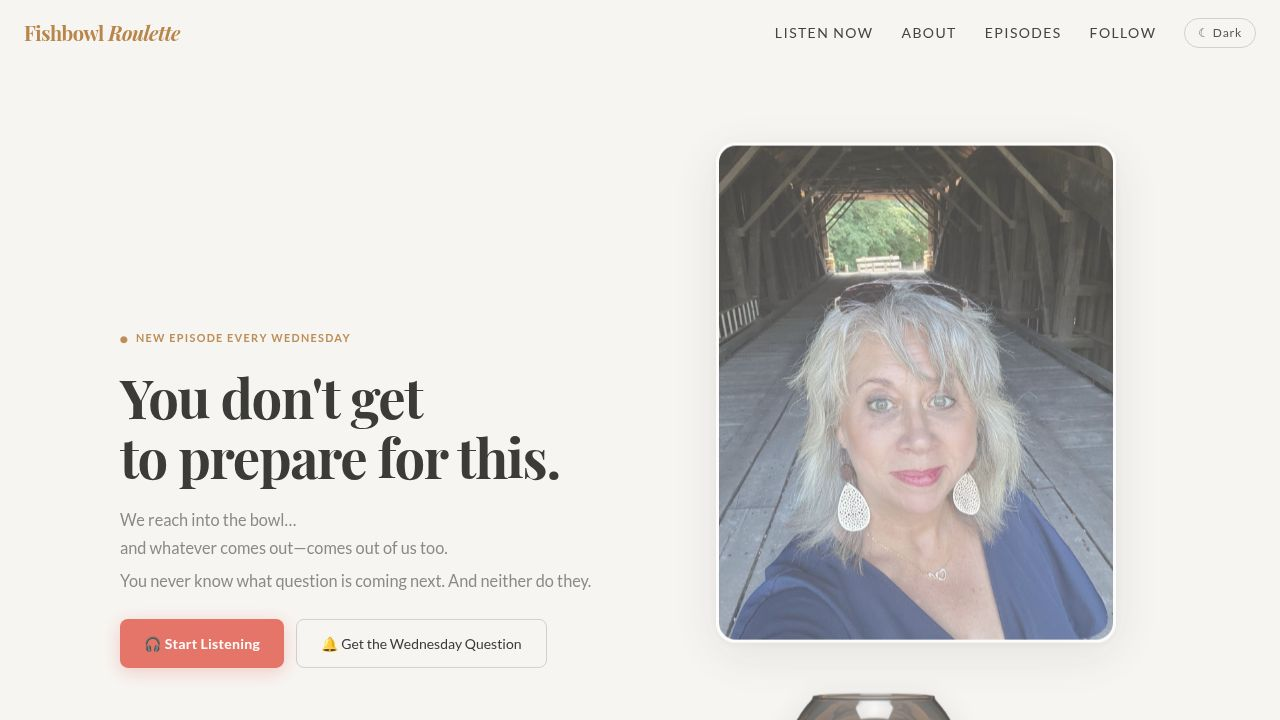
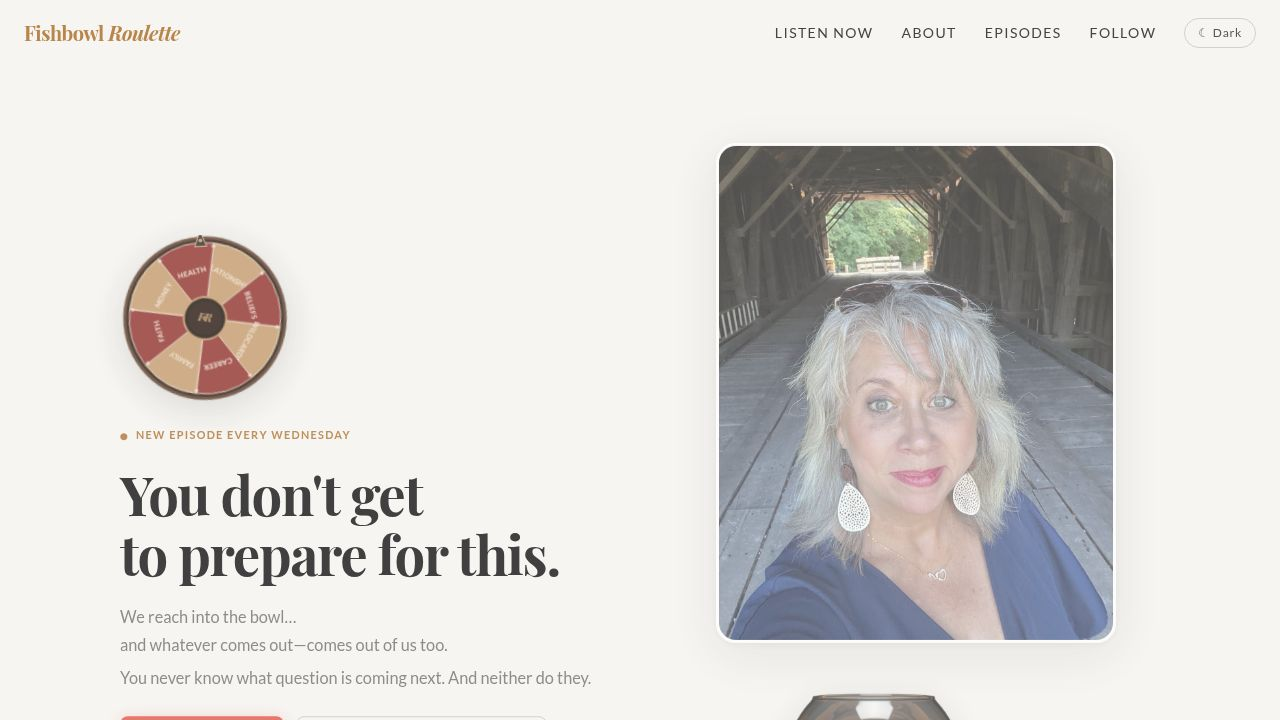
Add automated roulette wheel back to hero
User asked for the automated roulette wheel to be added back to the
empty space in the upper-left of the hero (above the "NEW EPISODE
EVERY WEDNESDAY" badge).

- artifacts/fishbowl-roulette/src/components/RouletteWheel.tsx (new):
  Pure SVG roulette wheel with 8 segments labeled Relationships,
  Beliefs, Wildcards, Career, Family, Faith, Money, Health. Alternating
  gold/red segments separated by cream borders, decorative cream dots
  on the outer ring, dark center hub with gold border and italic "FR"
  monogram, and a stationary triangular pointer at 12 o'clock. The
  wheel auto-spins continuously (22s per revolution) using a CSS
  keyframe animation, and respects prefers-reduced-motion. Theme-aware
  via an isDark prop.
- artifacts/fishbowl-roulette/src/pages/Home.tsx: Imported the
  component and placed it at the top of the hero's left column with a
  subtle motion entrance (fade + scale + rotate). Sized at 170px so it
  fits cleanly in the empty space without overflowing or pushing the
  headline down.

Drift: No prior roulette wheel existed in the git history (verified
across all commits — only "Roulette" as part of the brand name was
ever present), so I built one from scratch to fit the empty space.

Changed region(s): [[0.0938, 0.3056, 0.4688, 0.825], [0.0938, 0.8556, 0.4688, 0.9472], [0.0938, 0.9778, 0.2188, 1.0]]

diff --git a/artifacts/fishbowl-roulette/src/components/RouletteWheel.tsx b/artifacts/fishbowl-roulette/src/components/RouletteWheel.tsx
@@ -1,0 +1,178 @@
+import { useMemo } from 'react';
+
+interface RouletteWheelProps {
+  size?: number;
+  isDark?: boolean;
+  spinSeconds?: number;
+}
+
+const SEGMENTS = [
+  'Relationships',
+  'Beliefs',
+  'Wildcards',
+  'Career',
+  'Family',
+  'Faith',
+  'Money',
+  'Health',
+];
+
+export function RouletteWheel({
+  size = 180,
+  isDark = false,
+  spinSeconds = 22,
+}: RouletteWheelProps) {
+  const r = 100;
+  const cx = 0;
+  const cy = 0;
+  const segmentAngle = 360 / SEGMENTS.length;
+
+  const gold = '#c49a6c';
+  const goldDeep = '#9d7546';
+  const red = isDark ? '#a63a34' : '#8f2f2a';
+  const cream = '#f1e3d3';
+  const dark = '#1a1008';
+
+  const paths = useMemo(
+    () =>
+      SEGMENTS.map((label, i) => {
+        const startAngle = (i * segmentAngle - 90) * (Math.PI / 180);
+        const endAngle = ((i + 1) * segmentAngle - 90) * (Math.PI / 180);
+        const x1 = cx + r * Math.cos(startAngle);
+        const y1 = cy + r * Math.sin(startAngle);
+        const x2 = cx + r * Math.cos(endAngle);
+        const y2 = cy + r * Math.sin(endAngle);
+        const largeArc = segmentAngle > 180 ? 1 : 0;
+        const d = `M ${cx} ${cy} L ${x1} ${y1} A ${r} ${r} 0 ${largeArc} 1 ${x2} ${y2} Z`;
+        const fill = i % 2 === 0 ? gold : red;
+        const labelAngleDeg = i * segmentAngle + segmentAngle / 2 - 90;
+        const labelAngleRad = labelAngleDeg * (Math.PI / 180);
+        const labelR = r * 0.62;
+        const lx = cx + labelR * Math.cos(labelAngleRad);
+        const ly = cy + labelR * Math.sin(labelAngleRad);
+        return { d, fill, label, lx, ly, rotate: labelAngleDeg + 90 };
+      }),
+    [segmentAngle, gold, red],
+  );
+
+  return (
+    <div
+      style={{
+        width: size,
+        height: size,
+        position: 'relative',
+        filter: isDark
+          ? 'drop-shadow(0 14px 28px rgba(0,0,0,0.55))'
+          : 'drop-shadow(0 8px 18px rgba(43,43,43,0.18))',
+      }}
+      aria-label="Spinning fishbowl roulette wheel"
+      role="img"
+    >
+      <svg
+        viewBox="-110 -110 220 220"
+        width={size}
+        height={size}
+        style={{
+          display: 'block',
+          animation: `fbr-wheel-spin ${spinSeconds}s linear infinite`,
+          transformOrigin: '50% 50%',
+        }}
+      >
+        {/* Outer rim */}
+        <circle
+          cx={0}
+          cy={0}
+          r={108}
+          fill={isDark ? '#3a2418' : '#5a3a26'}
+        />
+        <circle cx={0} cy={0} r={104} fill={dark} opacity={0.85} />
+
+        {/* Segments */}
+        {paths.map((p, i) => (
+          <g key={i}>
+            <path d={p.d} fill={p.fill} stroke={cream} strokeWidth={1.2} />
+            <text
+              x={p.lx}
+              y={p.ly}
+              transform={`rotate(${p.rotate} ${p.lx} ${p.ly})`}
+              textAnchor="middle"
+              dominantBaseline="middle"
+              fill={cream}
+              fontSize={9.5}
+              fontFamily="var(--font-sans), system-ui, sans-serif"
+              fontWeight={700}
+              style={{ letterSpacing: '0.04em', textTransform: 'uppercase' }}
+            >
+              {p.label}
+            </text>
+          </g>
+        ))}
+
+        {/* Decorative dots between segments */}
+        {SEGMENTS.map((_, i) => {
+          const a = (i * segmentAngle - 90) * (Math.PI / 180);
+          const dx = 96 * Math.cos(a);
+          const dy = 96 * Math.sin(a);
+          return (
+            <circle key={`dot-${i}`} cx={dx} cy={dy} r={2.4} fill={cream} opacity={0.85} />
+          );
+        })}
+
+        {/* Inner hub ring */}
+        <circle cx={0} cy={0} r={28} fill={dark} stroke={gold} strokeWidth={2.5} />
+        <circle cx={0} cy={0} r={22} fill={isDark ? '#0e0805' : '#241510'} />
+        {/* Center monogram */}
+        <text
+          x={0}
+          y={0.5}
+          textAnchor="middle"
+          dominantBaseline="middle"
+          fill={gold}
+          fontSize={14}
+          fontFamily="var(--font-serif), Georgia, serif"
+          fontStyle="italic"
+          fontWeight={700}
+        >
+          FR
+        </text>
+        {/* Center pivot */}
+        <circle cx={0} cy={0} r={3} fill={goldDeep} />
+      </svg>
+
+      {/* Pointer / ticker (does NOT rotate, sits on top at 12 o'clock) */}
+      <svg
+        viewBox="-110 -110 220 220"
+        width={size}
+        height={size}
+        style={{
+          display: 'block',
+          position: 'absolute',
+          inset: 0,
+          pointerEvents: 'none',
+        }}
+        aria-hidden="true"
+      >
+        <polygon
+          points="0,-115 -8,-95 8,-95"
+          fill={isDark ? cream : '#2b2b2b'}
+          stroke={gold}
+          strokeWidth={1.5}
+          strokeLinejoin="round"
+        />
+        <circle cx={0} cy={-103} r={2.5} fill={gold} />
+      </svg>
+
+      <style>{`
+        @keyframes fbr-wheel-spin {
+          from { transform: rotate(0deg); }
+          to   { transform: rotate(360deg); }
+        }
+        @media (prefers-reduced-motion: reduce) {
+          svg[style*="fbr-wheel-spin"] { animation: none !important; }
+        }
+      `}</style>
+    </div>
+  );
+}
+
+export default RouletteWheel;

diff --git a/artifacts/fishbowl-roulette/src/pages/Home.tsx b/artifacts/fishbowl-roulette/src/pages/Home.tsx
@@ -1,5 +1,6 @@
 import React, { useEffect, useState } from 'react';
 import { motion } from 'framer-motion';
+import { RouletteWheel } from '../components/RouletteWheel';
 
 const BASE = import.meta.env.BASE_URL;
 const sandraImg = `${BASE}images/sandra.jpg`;
@@ -216,6 +217,17 @@ const Home = () => {
               transition={{ duration: 0.8, ease: 'easeOut', delay: 0.1 }}
               className="flex flex-col gap-5"
             >
+              {/* Automated roulette wheel — fills the empty space above
+                  the Wednesday badge. Auto-spins continuously. */}
+              <motion.div
+                initial={{ opacity: 0, scale: 0.85, rotate: -25 }}
+                animate={{ opacity: 1, scale: 1, rotate: 0 }}
+                transition={{ duration: 0.9, ease: 'easeOut', delay: 0.05 }}
+                style={{ alignSelf: 'flex-start', marginBottom: '4px' }}
+              >
+                <RouletteWheel size={170} isDark={isDark} spinSeconds={22} />
+              </motion.div>
+
               {/* Wednesday badge */}
               <div style={{
                 display: 'inline-flex', alignItems: 'center', gap: '7px',
